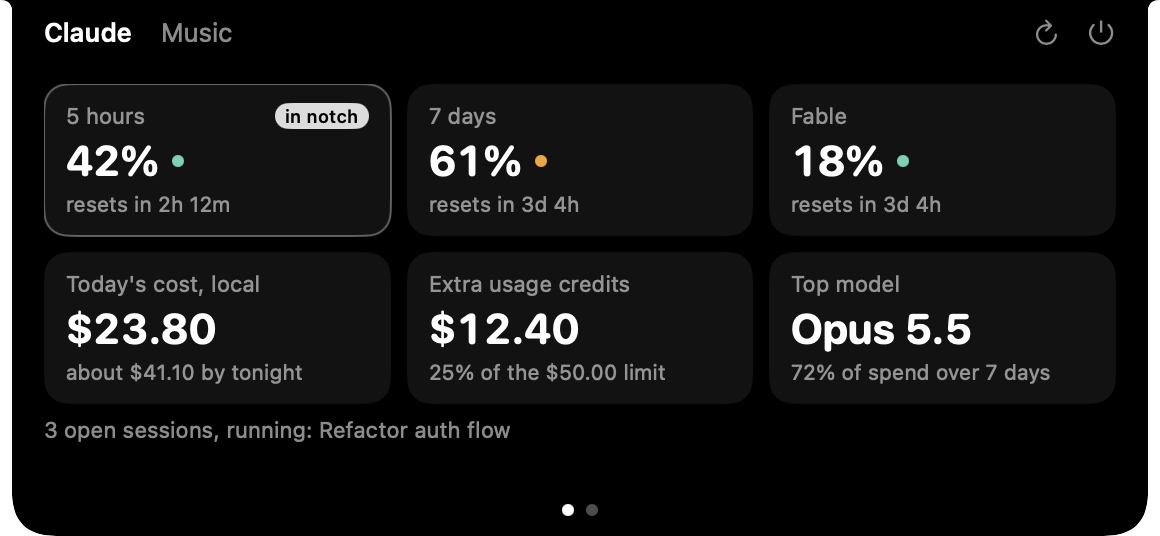
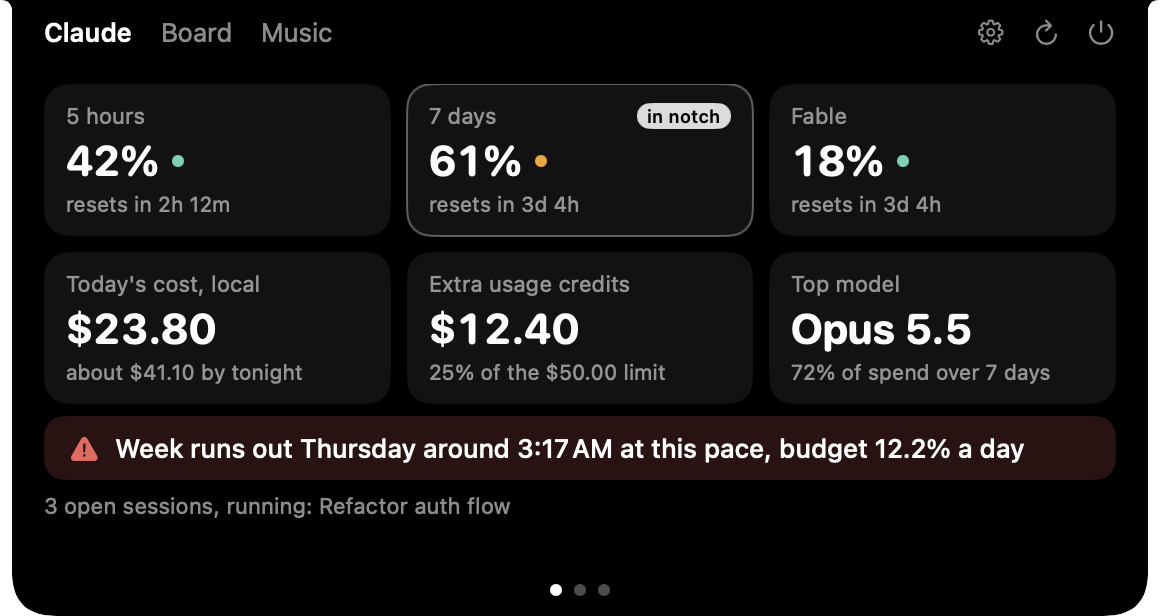
Update screenshots for version 1.1: Claude, Board, Settings and Music pages

diff --git a/README.md b/README.md
@@ -4,7 +4,11 @@
 
 A small native macOS app that lives in your MacBook's notch and keeps you in the flow while you run Claude Code sessions with music on.
 
-<p align="center"><img src="docs/claude.png" width="580" alt="Claude page: 5-hour, 7-day and Fable limits, today's cost, credits and top model"></p>
+<p align="center"><img src="docs/claude.png" width="580" alt="Claude page: 5-hour, 7-day and Fable limits, today's cost, credits, top model and the red line warning that the week runs out before the reset"></p>
+
+| Board page | Settings |
+|---|---|
+| <img src="docs/board.png" width="400" alt="Board page: 5-hour and weekly charts with an even pace and a projection, and what used the week"> | <img src="docs/settings.png" width="400" alt="Settings: notifications, projection basis, launch at login, credit and version"> |
 
 | Closed notch | Session finished | Music page |
 |---|---|---|
